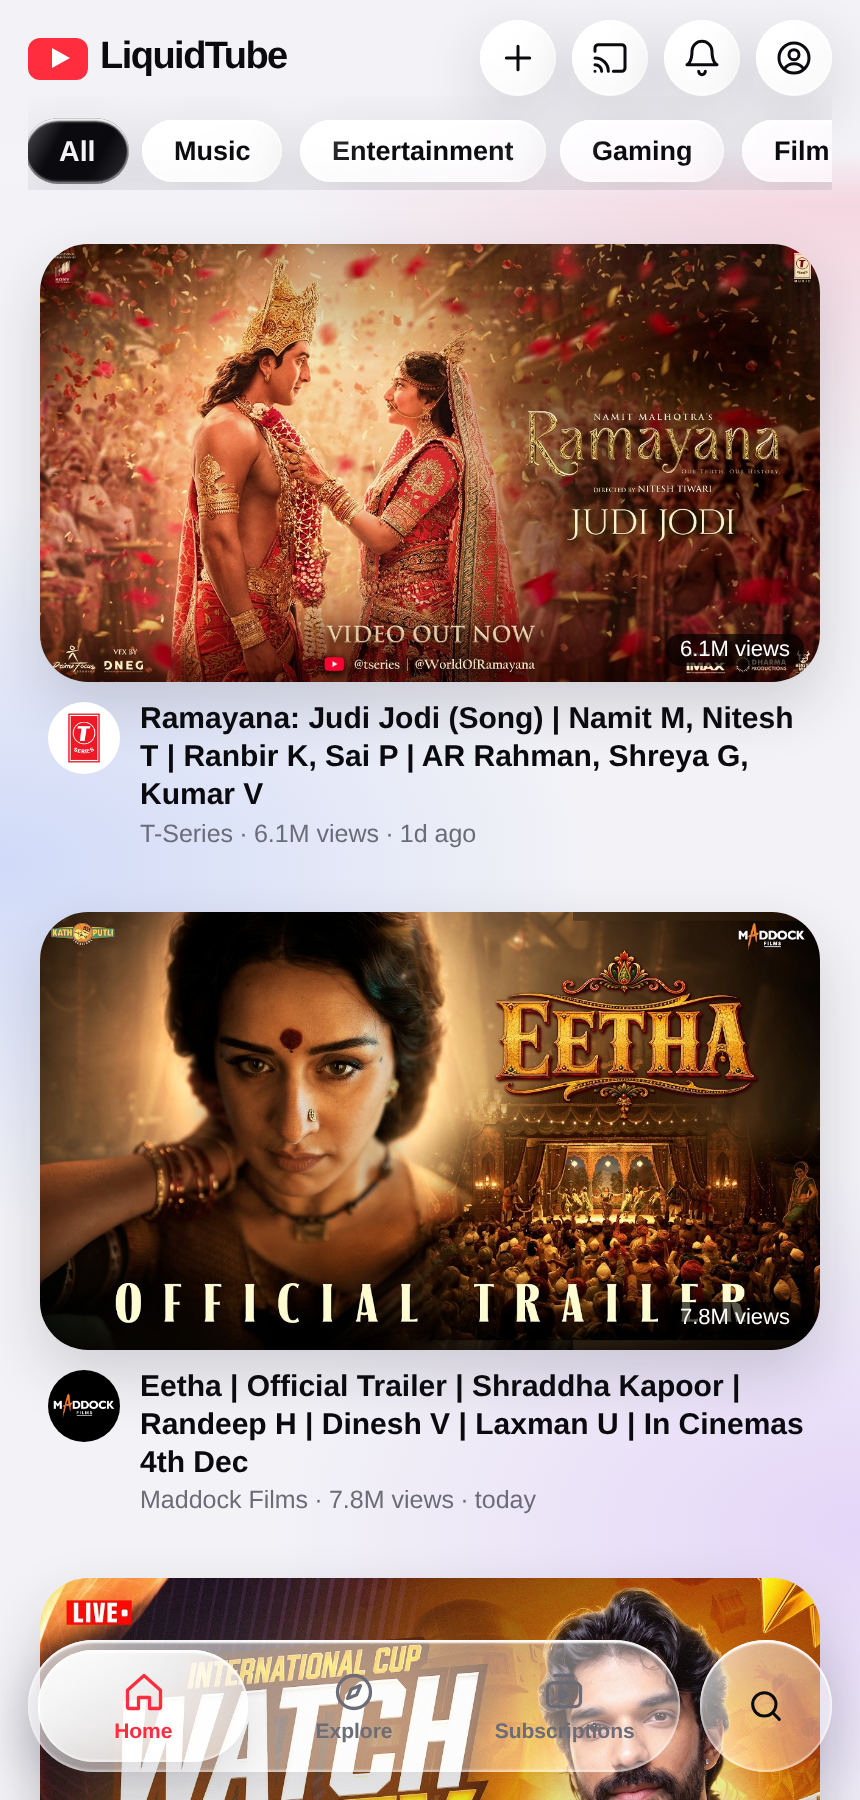
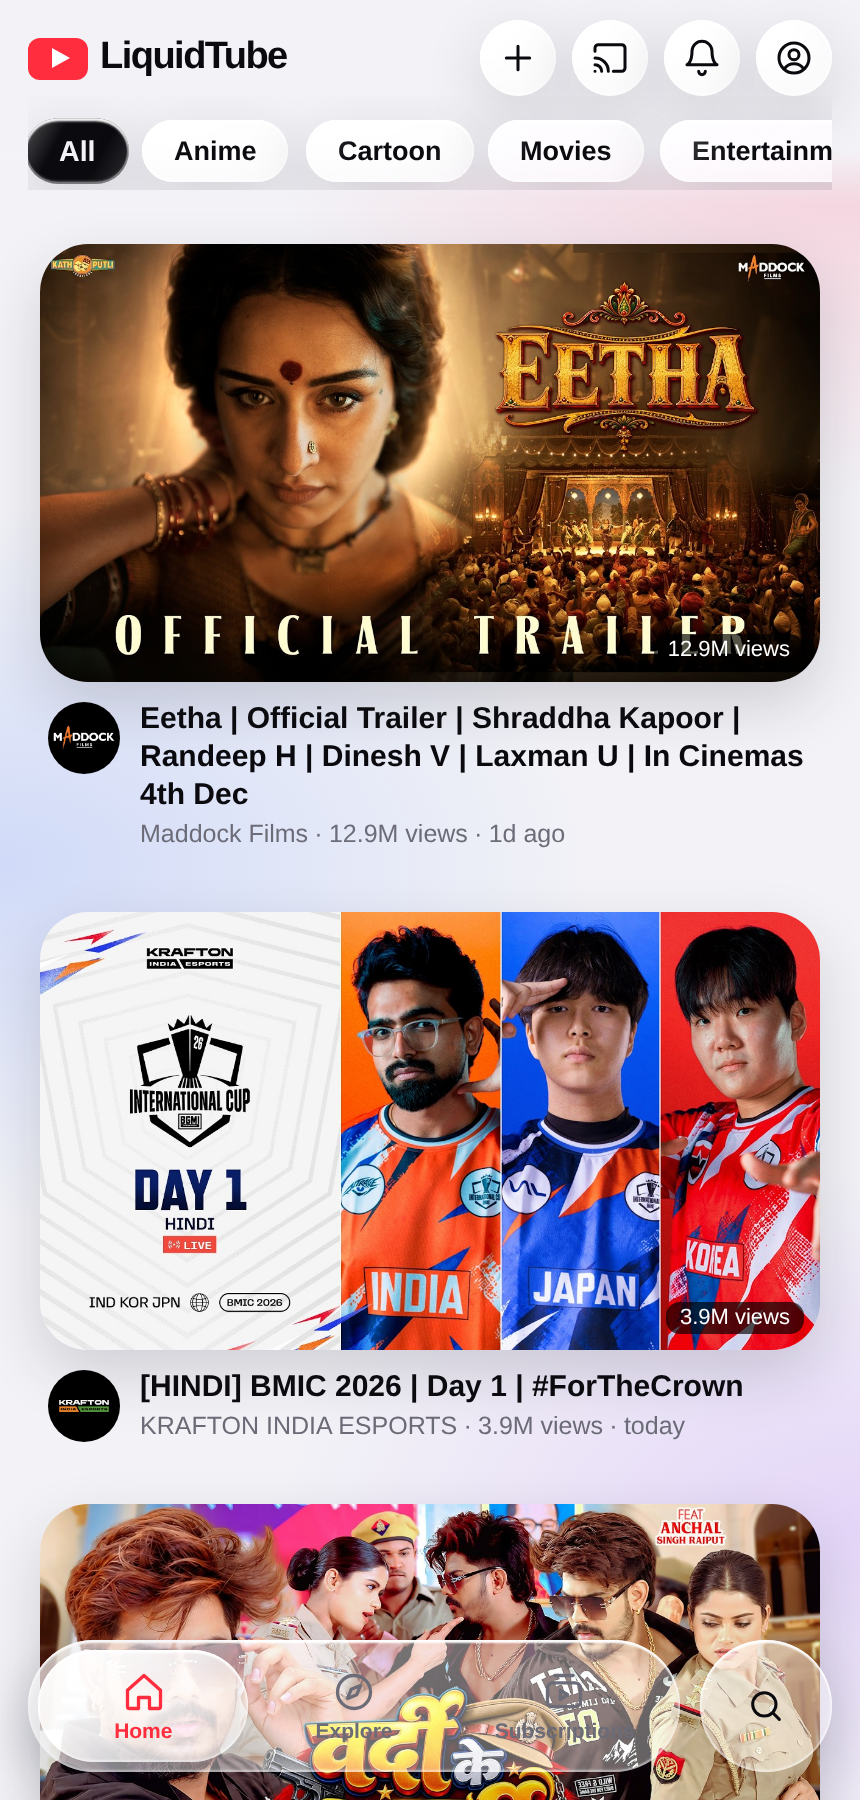
LiquidTube 7.4 — long form only, Shorts removed for good
- Cut is now dur <= 180s (YouTube Shorts run to 3 minutes), applied by dropShorts()
  to the home feed, search, shelves, channel pages and all three Hindi sections;
  #shorts titles are dropped before that.
- play() refuses a short even if it arrives from history or a stale cache.
- Anime/Cartoon sources rebuilt around long-form channels (Anime zone Hindi, Anime
  India, Anime Rocks India; Shemaroo Kids, PowerKids TV, Wow Kidz Movie, Green Gold
  Movies, Green Gold). Sony YAY! and Chhota Bheem dropped - shorts only now.
- Hindi-first sort in every section.
- Verified: home 16 items min 183s, Anime 17 min 293s, Cartoon 47 min 365s,
  Movies 49 min 365s, zero items under 180s.
- APK rebuilt as versionCode 29 / versionName 7.4.

diff --git a/app/assets/index.html b/app/assets/index.html
@@ -378,13 +378,14 @@ function chip(n){
 }
 $('chips').onclick=e=>{const b=e.target.closest('.chip');if(b)chip(b.textContent)};
 
-/* Shorts are removed everywhere: feed, search, shelves and channel pages */
-const SHORT_MAX=60;
+/* Long form only. YouTube Shorts can run up to 3 minutes, so anything at or
+   under that is treated as a short and never reaches the app. */
+const LONG_MIN=180;
 const SHORT_RE=/#shorts?\b|\/shorts\//i;
-const isShort=v=>!!v&&(SHORT_RE.test(v.t||'')||(typeof v.dur==='number'&&v.dur>0&&v.dur<=SHORT_MAX));
+const isShort=v=>!v||SHORT_RE.test(v.t||'')||(typeof v.dur==='number'&&v.dur>0&&v.dur<=LONG_MIN);
 async function dropShorts(list){
   list=(list||[]).filter(v=>v&&!SHORT_RE.test(v.t||'')&&!/^(Private|Deleted) video$/i.test(v.t||''));
-  await loadDurations(list);
+  await loadDurations(list);                 // every item is measured, not just the unknown ones
   return list.filter(v=>!isShort(v));
 }
 
@@ -429,15 +430,15 @@ function renderExplore(){
 const BADRE=/\breaction\b|\breacts?\b|\breacting\b|reaction\s*[!|]/i;
 const SECTIONS={
   anime:{
-    el:'animefeed', key:'lt_anime',
-    channels:['UC7eHSvqnDbZLCtW3JjPAg3A','UCcDvQM6NucVAlpryMA2K19A','UCQ6VArEt6chk0sRASWCIPhQ']
+    el:'animefeed', key:'lt_anime', q:'anime hindi dubbed full episode',
+    channels:['UCbooIOzIduLDQuXnjymX0LA','UCE_unrO5vPA_c-Kpci0zdxw','UCF-GU6WZnkTNto62Ew7n2Aw','UC7eHSvqnDbZLCtW3JjPAg3A']
   },
   cartoon:{
-    el:'cartoonfeed', key:'lt_cartoon',
-    channels:['UCiBigY9XM-HaOxUc269ympg','UCmYOUJTZiVW72PNdYPFfkDA','UCTA8MKozQTzeOLJV1BQVMrA','UC760cHmgkk00FRT1dw2DMdA']
+    el:'cartoonfeed', key:'lt_cartoon', q:'cartoon hindi full episode',
+    channels:['UC9iBBFfq7L3ipvodSLrU8gQ','UCj-SWZSE0AmotGSQ3apROHw','UCkytZQj3NccDV3tLMoOxRIQ','UCYhdnzvcr5g22CmvcwpPhrQ','UCiBigY9XM-HaOxUc269ympg']
   },
   movies:{
-    el:'moviesfeed', key:'lt_movies',
+    el:'moviesfeed', key:'lt_movies', q:'animated hindi movie full',
     channels:['UCkytZQj3NccDV3tLMoOxRIQ','UCYhdnzvcr5g22CmvcwpPhrQ','UC9iBBFfq7L3ipvodSLrU8gQ','UCj-SWZSE0AmotGSQ3apROHw','UCuvZqGuCLbDBdoP9-MPVsqg']
   }
 };
@@ -479,8 +480,21 @@ async function loadSection(name){
       });
     }catch(e){}
   }
+  let clean=await dropShorts(out.filter(keep));
+  if(clean.length<8&&cfg.q){
+    try{
+      const j=await yt('search',{part:'snippet',type:'video',maxResults:20,q:cfg.q,
+        videoDuration:'long',relevanceLanguage:'hi',regionCode:'IN',videoEmbeddable:'true'});
+      const extra=(j.items||[]).filter(it=>it.id&&it.id.videoId).map(it=>vObj(it.id.videoId,
+        {t:dec(it.snippet.title),c:dec(it.snippet.channelTitle),ch:it.snippet.channelId,
+         pub:it.snippet.publishedAt,cat:name==='anime'?'Anime':name==='cartoon'?'Cartoon':'Animation'}));
+      clean=clean.concat(await dropShorts(extra.filter(keep)));
+    }catch(e){}
+  }
   const seen=new Set();
-  const clean=out.filter(v=>!seen.has(v.id)&&seen.add(v.id)).filter(keep);
+  clean=clean.filter(v=>!seen.has(v.id)&&seen.add(v.id));
+  const hi=v=>/[\u0900-\u097F]|\bhindi\b/i.test(v.t||'')?1:0;
+  clean.sort((a,b)=>hi(b)-hi(a));      // Hindi titles first, then the rest
   await loadChannels(clean.map(v=>v.ch));
   SEC[name]=clean;
   try{localStorage.setItem(cfg.key,JSON.stringify({at:Date.now(),
@@ -527,6 +541,7 @@ function mount(id,title){
 }
 function play(id){
   const v=V[id];if(!v)return;
+  if(isShort(v)){toast('Shorts are turned off');return}
   cur=v;
   $('sheet').classList.remove('on');
   S.hist=S.hist.filter(x=>x!==id);S.hist.unshift(id);S.hist=S.hist.slice(0,100);
